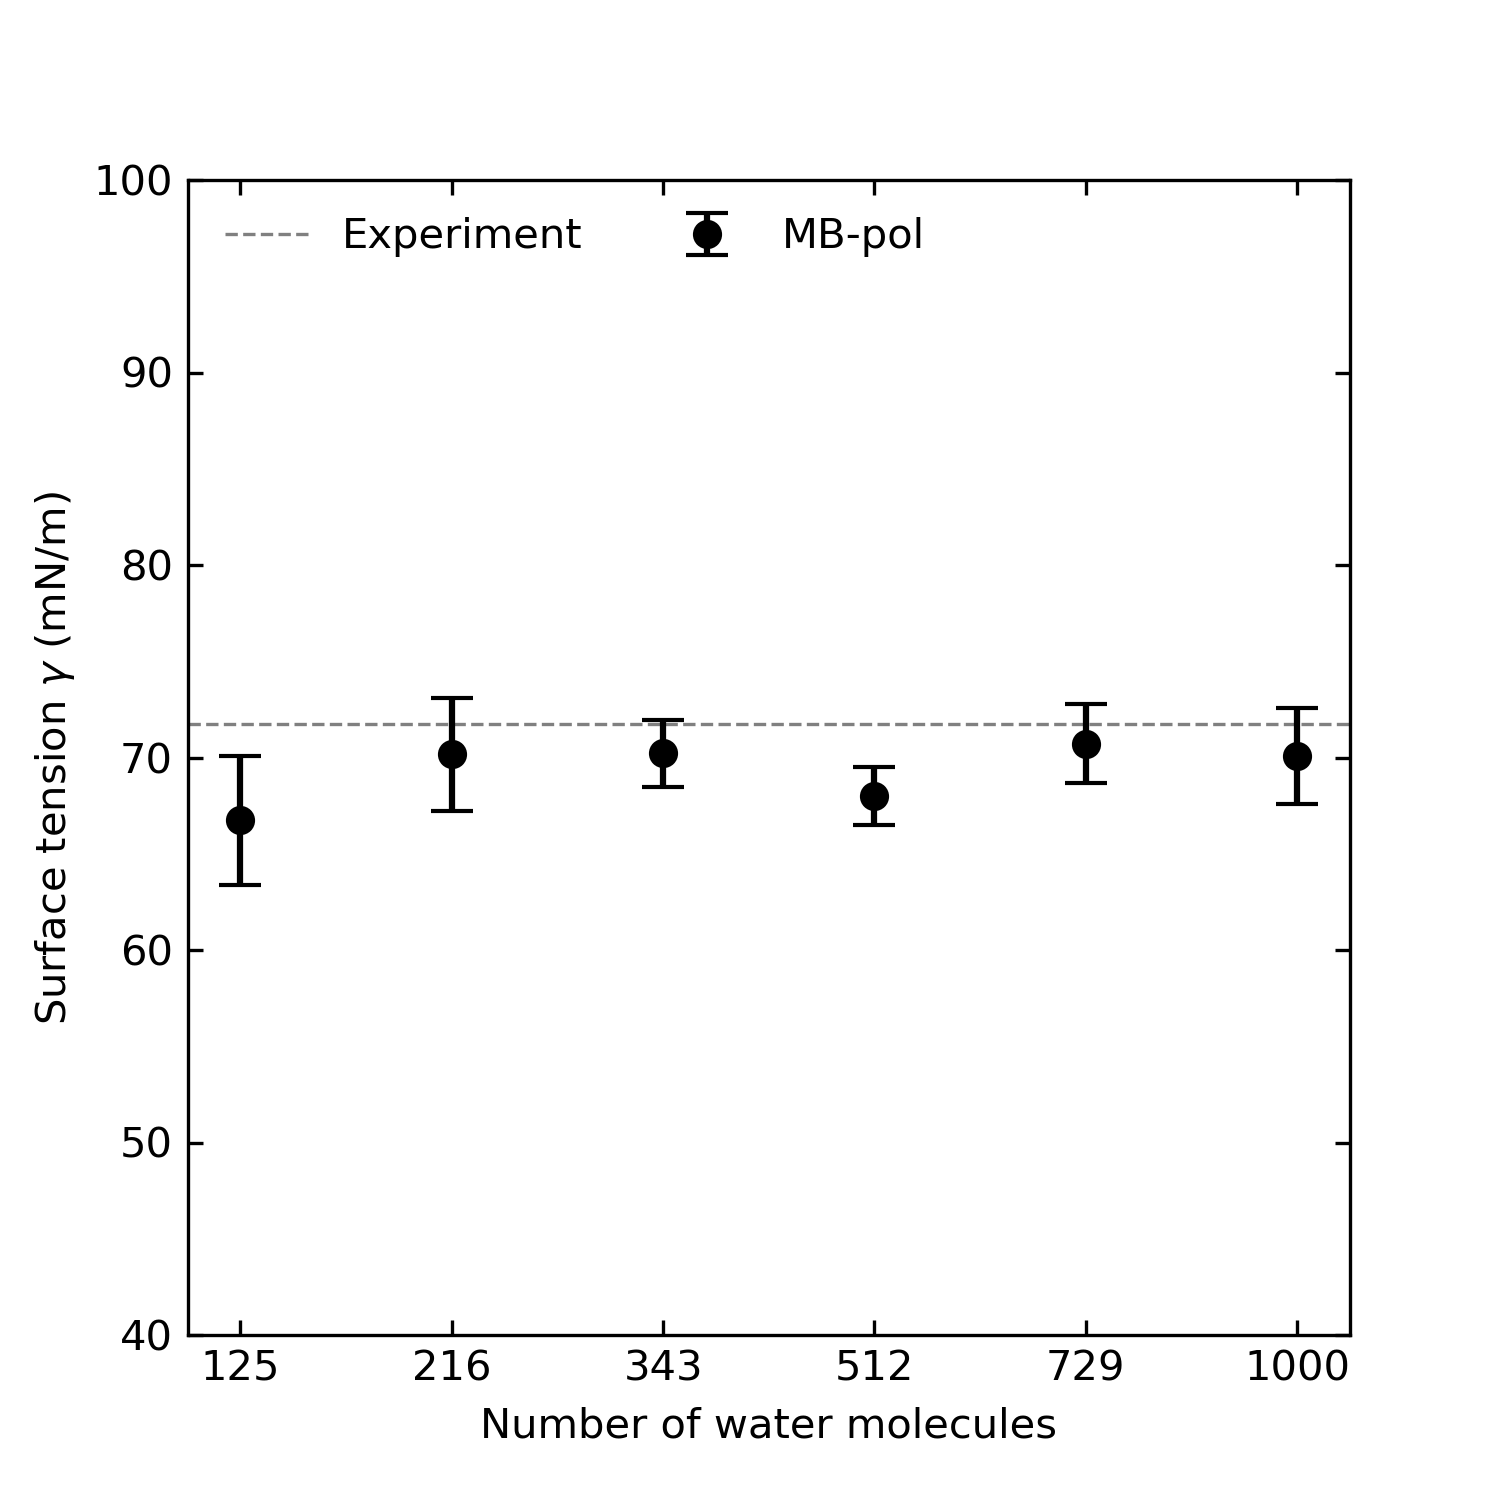
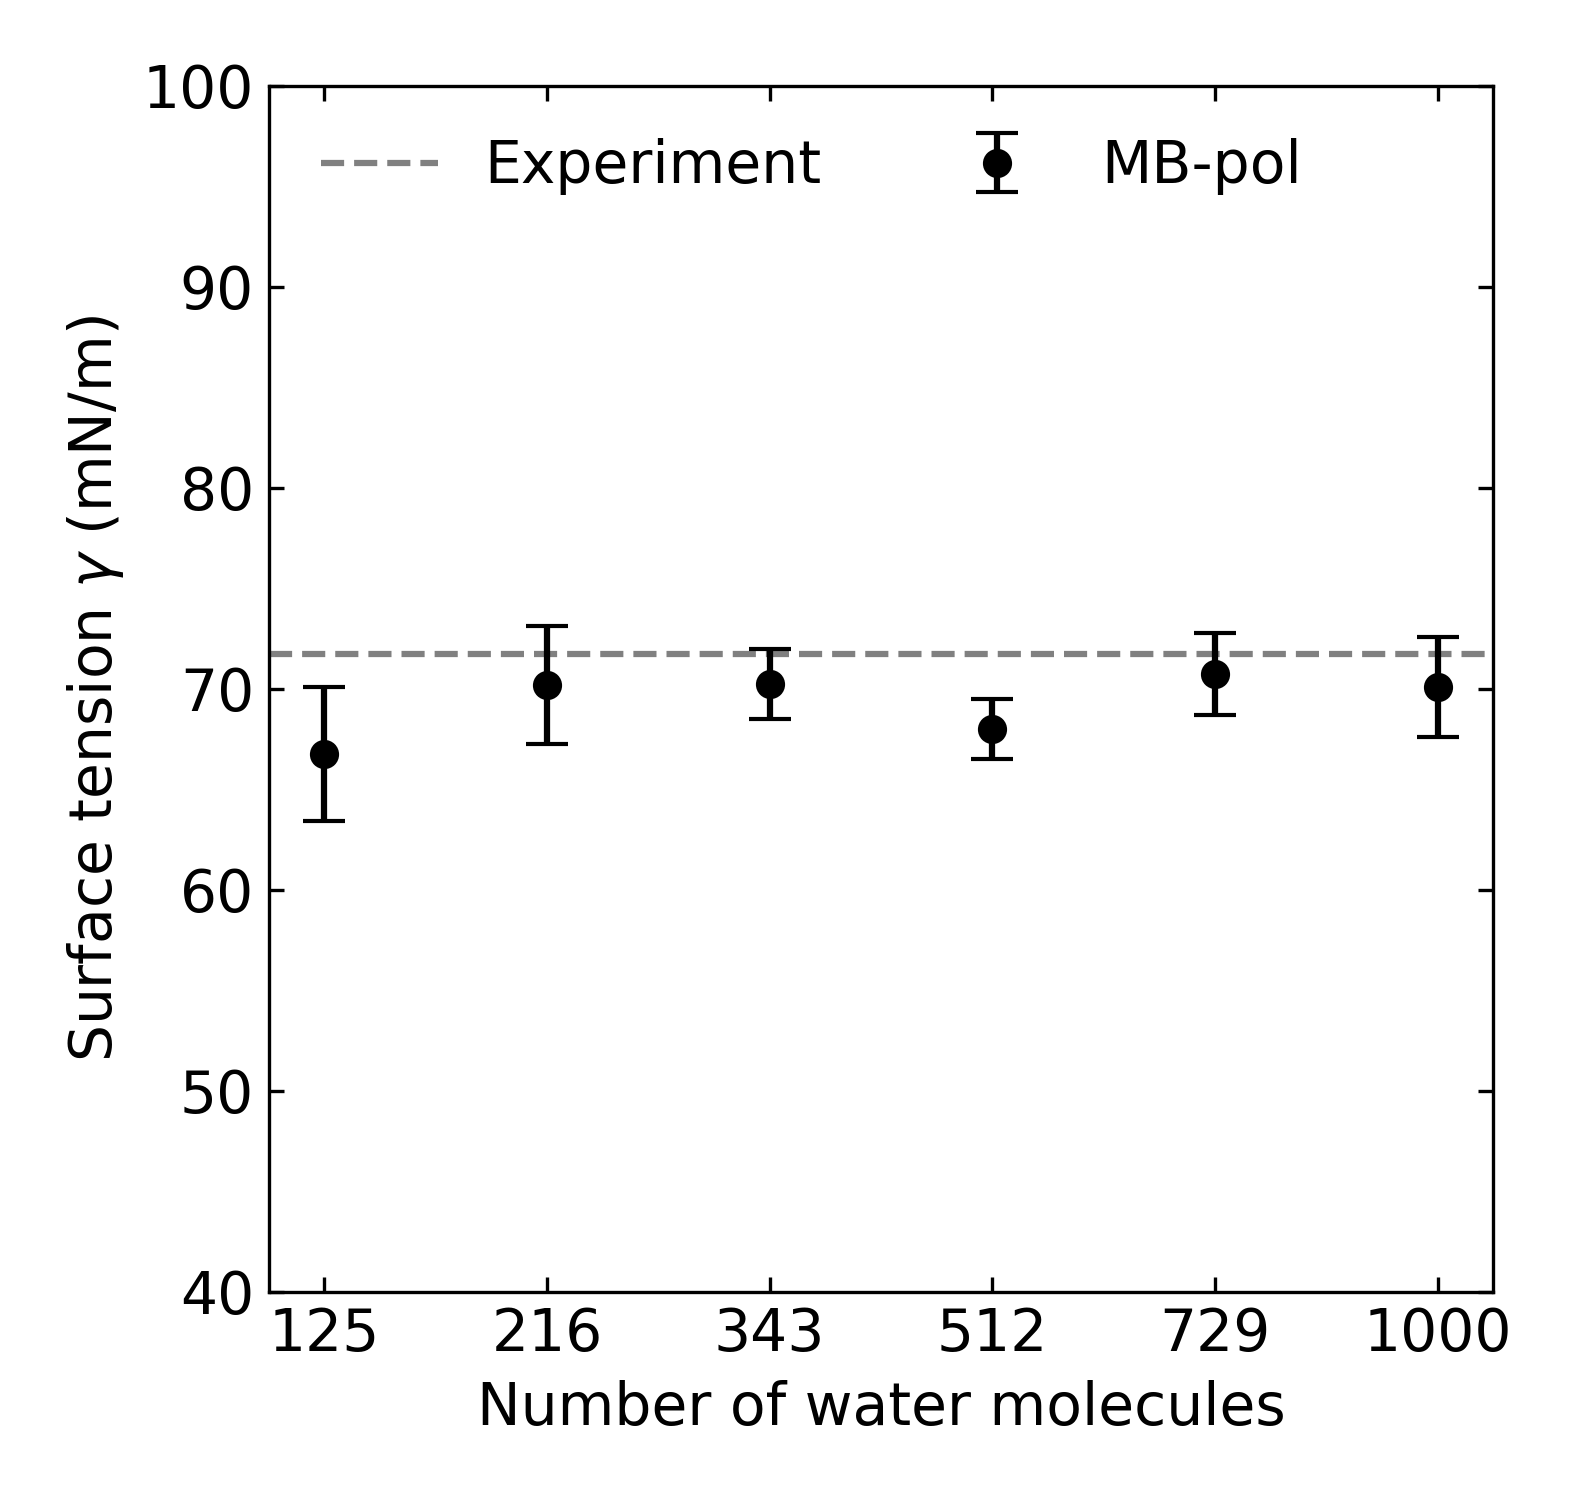
largeText

diff --git a/md_code/plotSurfaceTensions.py b/md_code/plotSurfaceTensions.py
@@ -16,10 +16,12 @@ for idx, num in enumerate(numMolecules):
     meanValues[idx], stdValues[idx], stdErrors[idx] = data[0], data[1], data[2]
 
 cube_roots = np.cbrt(numMolecules)
-scale = 5.0
+scale = 5
 offset = -0.2
-plt.figure(figsize=(1*scale, 1*scale))
-plt.axhline(y=71.73, linestyle='--', color='grey', linewidth=0.8, label='Experiment')
+fontSize = 14
+plt.rcParams.update({'font.size': fontSize})  
+plt.figure(figsize=(1.05*scale, 1*scale))
+plt.axhline(y=71.73, linestyle='--', color='grey', label='Experiment')
 plt.errorbar(cube_roots, meanValues, yerr=stdErrors, fmt='o', color='black', capsize=5, ecolor='black', label=label)
 plt.xticks(cube_roots, labels=numMolecules)  # Label ticks with the actual cubic numbers
 plt.xlabel('Number of water molecules')
@@ -27,7 +29,7 @@ plt.ylabel('Surface tension $\gamma$ (mN/m)')
 plt.tick_params(direction="in", axis='both', which='both', top=True, right=True)
 plt.ylim(40, 100)
 plt.legend(frameon=False, ncol=2, loc='upper left')
-#plt.tight_layout()
+plt.tight_layout()
 plt.savefig('ST_{}.png'.format(simType), dpi=300)
 plt.savefig('ST_{}.pdf'.format(simType))
 #plt.show()
